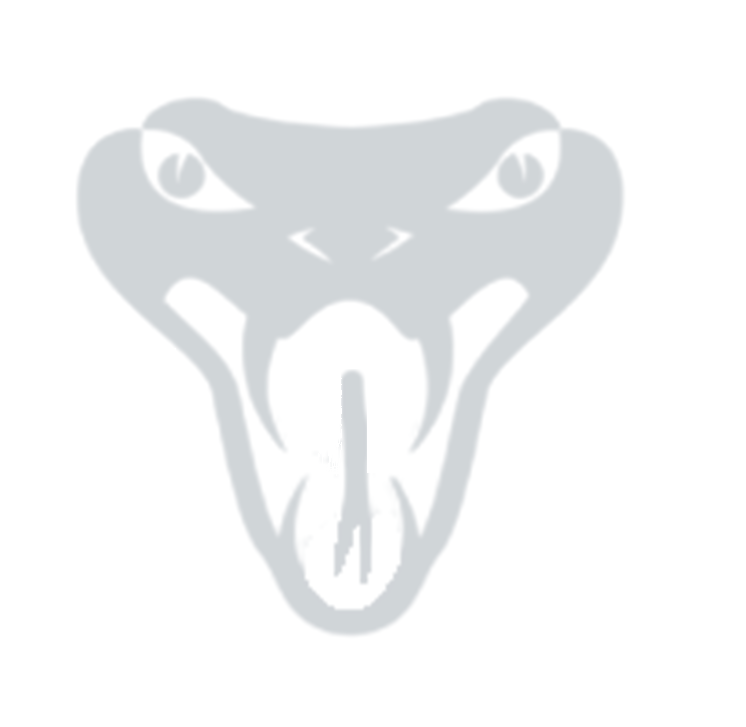
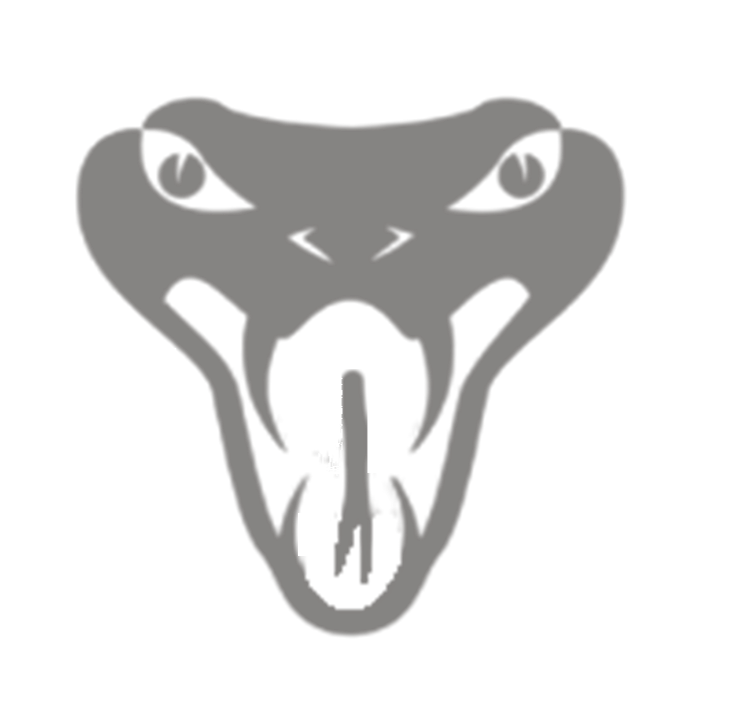
Minor Fixes

Changed region(s): [[0.0925, 0.121, 0.8633, 0.8776], [0.37, 0.6052, 0.4008, 0.6355]]

diff --git a/TheSnakeGame.py b/TheSnakeGame.py
@@ -372,8 +372,8 @@ quitpop=False
 
 #constants
 LENGTH = 454
+SCREEN = pygame.display.set_mode((LENGTH + 100, LENGTH))
 PIXEL = 15
-SCREEN = pygame.display.set_mode((LENGTH + 100, LENGTH), pygame.RESIZABLE)
 
 CLOCK = pygame.time.Clock()
 coin_2, point_2 = False, False
@@ -652,11 +652,11 @@ def delta_h():
                     (int(250 * HEIGHT / 454), int(250 * HEIGHT / 454)))
                 sideSnakeSize = scaledSideSnake.get_size()
                 scaledSideSnake.set_alpha(
-                    55 * ((petyr - 270) if petyr <= 300 else 30) / 30)
+                    (55 if not userSettings['darkTheme'] else 100) * ((petyr - 270) if petyr <= 300 else 30) / 30)
                 flippedScaledSideSnake = pygame.transform.flip(
                     scaledSideSnake, True, False)
                 flippedScaledSideSnake.set_alpha(
-                    55 * ((petyr - 270) if petyr <= 300 else 30) / 30)
+                    (55 if not userSettings['darkTheme'] else 100) * ((petyr - 270) if petyr <= 300 else 30) / 30)
                 SCREEN.blit(
                     scaledSideSnake,
                     ((LENGTH - sideSnakeSize[0]) / 2 +
@@ -740,7 +740,7 @@ def delta_h():
 
 
 def home():
-    global i, decreaser, done, user, start, frontSnake, petyr, changeNamePop
+    global i, decreaser, done, user, start, frontSnake, petyr, changeNamePop,SCREEN
     global savedDataSent, savedDataNotUpdated, savedDataNotSent, savedDataUpdated
     LENGTH = pygame.display.get_surface().get_width()
     HEIGHT = pygame.display.get_surface().get_height()
@@ -754,7 +754,7 @@ def home():
     scaledSideSnake = pygame.transform.scale(sideSnake, (int(250 * HEIGHT / 454), int(250 * HEIGHT / 454)))
     sideSnakeSize = scaledSideSnake.get_size()
     flippedScaledSideSnake = pygame.transform.flip(scaledSideSnake, True,False)
-    scaledSideSnake.set_alpha(55), flippedScaledSideSnake.set_alpha(55)
+    scaledSideSnake.set_alpha(55 if not userSettings['darkTheme'] else 100), flippedScaledSideSnake.set_alpha(55 if not userSettings['darkTheme'] else 100)
      
     SCREEN.blit(scaledSideSnake,
         (margin + (usualWidth * LENGTH / 554 - sideSnakeSize[0]) / 2, 40 +
@@ -778,13 +778,15 @@ def home():
         if button('LeaderBoard',margin,300 * HEIGHT / 454,usualWidth * LENGTH / 554,30 * HEIGHT / 454,h_col,x_offset=7 + (10**(LENGTH / 554)) / 3,text_col=text1_col,text_size=16,hover_col=bb_col,hover_width=1) and not quitpop:
             user = 'LeaderBoard'
             petyr = 4
-        if button('Missions',margin,340 * HEIGHT / 454,usualWidth * LENGTH / 554,30 * HEIGHT / 454,h_col,x_offset=20 + (10**(LENGTH / 554)) / 3,text_col=text1_col,text_size=16,hover_col=bb_col,hover_width=1):
-            user = 'Missions'
-            daily()
         user = 'Inventory' if button('Inventory',LENGTH - (margin + usualWidth * LENGTH / 554),300 * HEIGHT / 454,usualWidth * LENGTH / 554,30 * HEIGHT / 454,h_col,x_offset=20 + (10**(LENGTH / 554)) / 3,text_col=text1_col,text_size=16,hover_col=bb_col,hover_width=1) else user
         user = 'MarketPlace' if button('Shop',LENGTH -(margin + usualWidth * LENGTH / 554),340 * HEIGHT / 454,usualWidth * LENGTH / 554,30 * HEIGHT / 454,h_col,x_offset=35 + (10**(LENGTH / 554)) / 3,text_col=text1_col,text_size=16,hover_col=bb_col,hover_width=1) else user
         user = 'Cheaterlist' if button('Cheaters\' list',LENGTH -(margin + usualWidth * LENGTH / 554),380 * HEIGHT / 454,usualWidth * LENGTH / 554,30 * HEIGHT / 454,h_col,x_offset=7 + (10**(LENGTH / 554)) / 3,text_col=text1_col,text_size=16,hover_col=bb_col,hover_width=1) else user
         user = 'Info' if button('SEE INFO',(LENGTH - (140 * LENGTH / 554)) / 2 + 15,380 * HEIGHT / 454,100 * LENGTH / 554,30 * HEIGHT / 454,bg_col,x_offset=(10**(LENGTH / 554)) / 3,text_col=h_col,text_size=16,hover_col=bb_col,hover_width=1) else user
+        if button('Missions',margin,340 * HEIGHT / 454,usualWidth * LENGTH / 554,30 * HEIGHT / 454,h_col,x_offset=20 + (10**(LENGTH / 554)) / 3,text_col=text1_col,text_size=16,hover_col=bb_col,hover_width=1):
+            user = 'Missions'
+            LENGTH=454
+            SCREEN = pygame.display.set_mode((LENGTH + 100, LENGTH+50))
+            daily()
     else:
         for j in range(3):
             pygame.draw.rect(
@@ -1452,7 +1454,7 @@ def leaderboard():
 
 
 def missions():
-    global user, obj, petyr
+    global user, obj, petyr,SCREEN
     LENGTH = pygame.display.get_surface().get_width()
     SCREEN.fill(bb_col)
     pygame.draw.rect(SCREEN, h_col, (0, 0, LENGTH, 40))
@@ -1550,6 +1552,8 @@ def missions():
             show(f'{M} ', h_col, LENGTH - 150, 131 + i * 50, 13)
     if button('Home',LENGTH - 154,5,100,30,appBarButtonCol,x_offset=10,text_col=h_col,text_size=16,hover_col=bb_col,hover_width=1):
         user = 'Home'
+        LENGTH = 454
+        SCREEN = pygame.display.set_mode((LENGTH + 100, LENGTH))
         petyr = 0
     if petyr == 1:
         Popup(mode='loading')
